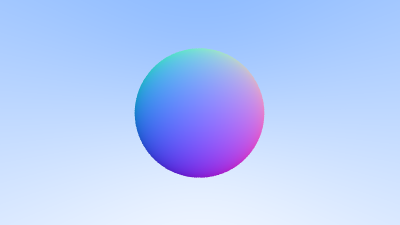
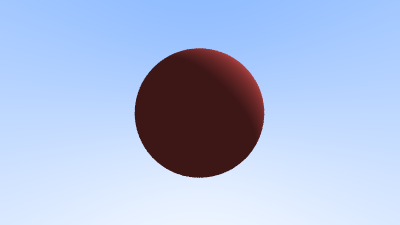
lambertian lighting

Changed region(s): [[0.33, 0.1867, 0.66, 0.8089]]

diff --git a/ray.py b/ray.py
@@ -43,7 +43,13 @@ def ray_to_sky_color(ray: Ray) -> np.ndarray:
     if time_hit_sphere:
         position_hit_sphere = ray.position(time_hit_sphere)
         normal = normalize(position_hit_sphere - random_sphere_center)
-        return 0.5 * (normal + 1.0)
+        light_direction = normalize(np.array([1.0, 1.0, -0.5], dtype=np.float32))
+        diffuse_intensity = max(np.dot(normal, light_direction), 0.0)
+        material_base_color = np.array([0.8, 0.3, 0.3], dtype=np.float32)
+        ambient = 0.3
+        color = ambient * material_base_color + diffuse_intensity * material_base_color
+        color = np.clip(color, 0.0, 1.0)
+        return color
 
     unit_direction = normalize(ray.direction)
     blueness = .5 * (unit_direction[1] + 1.0)
